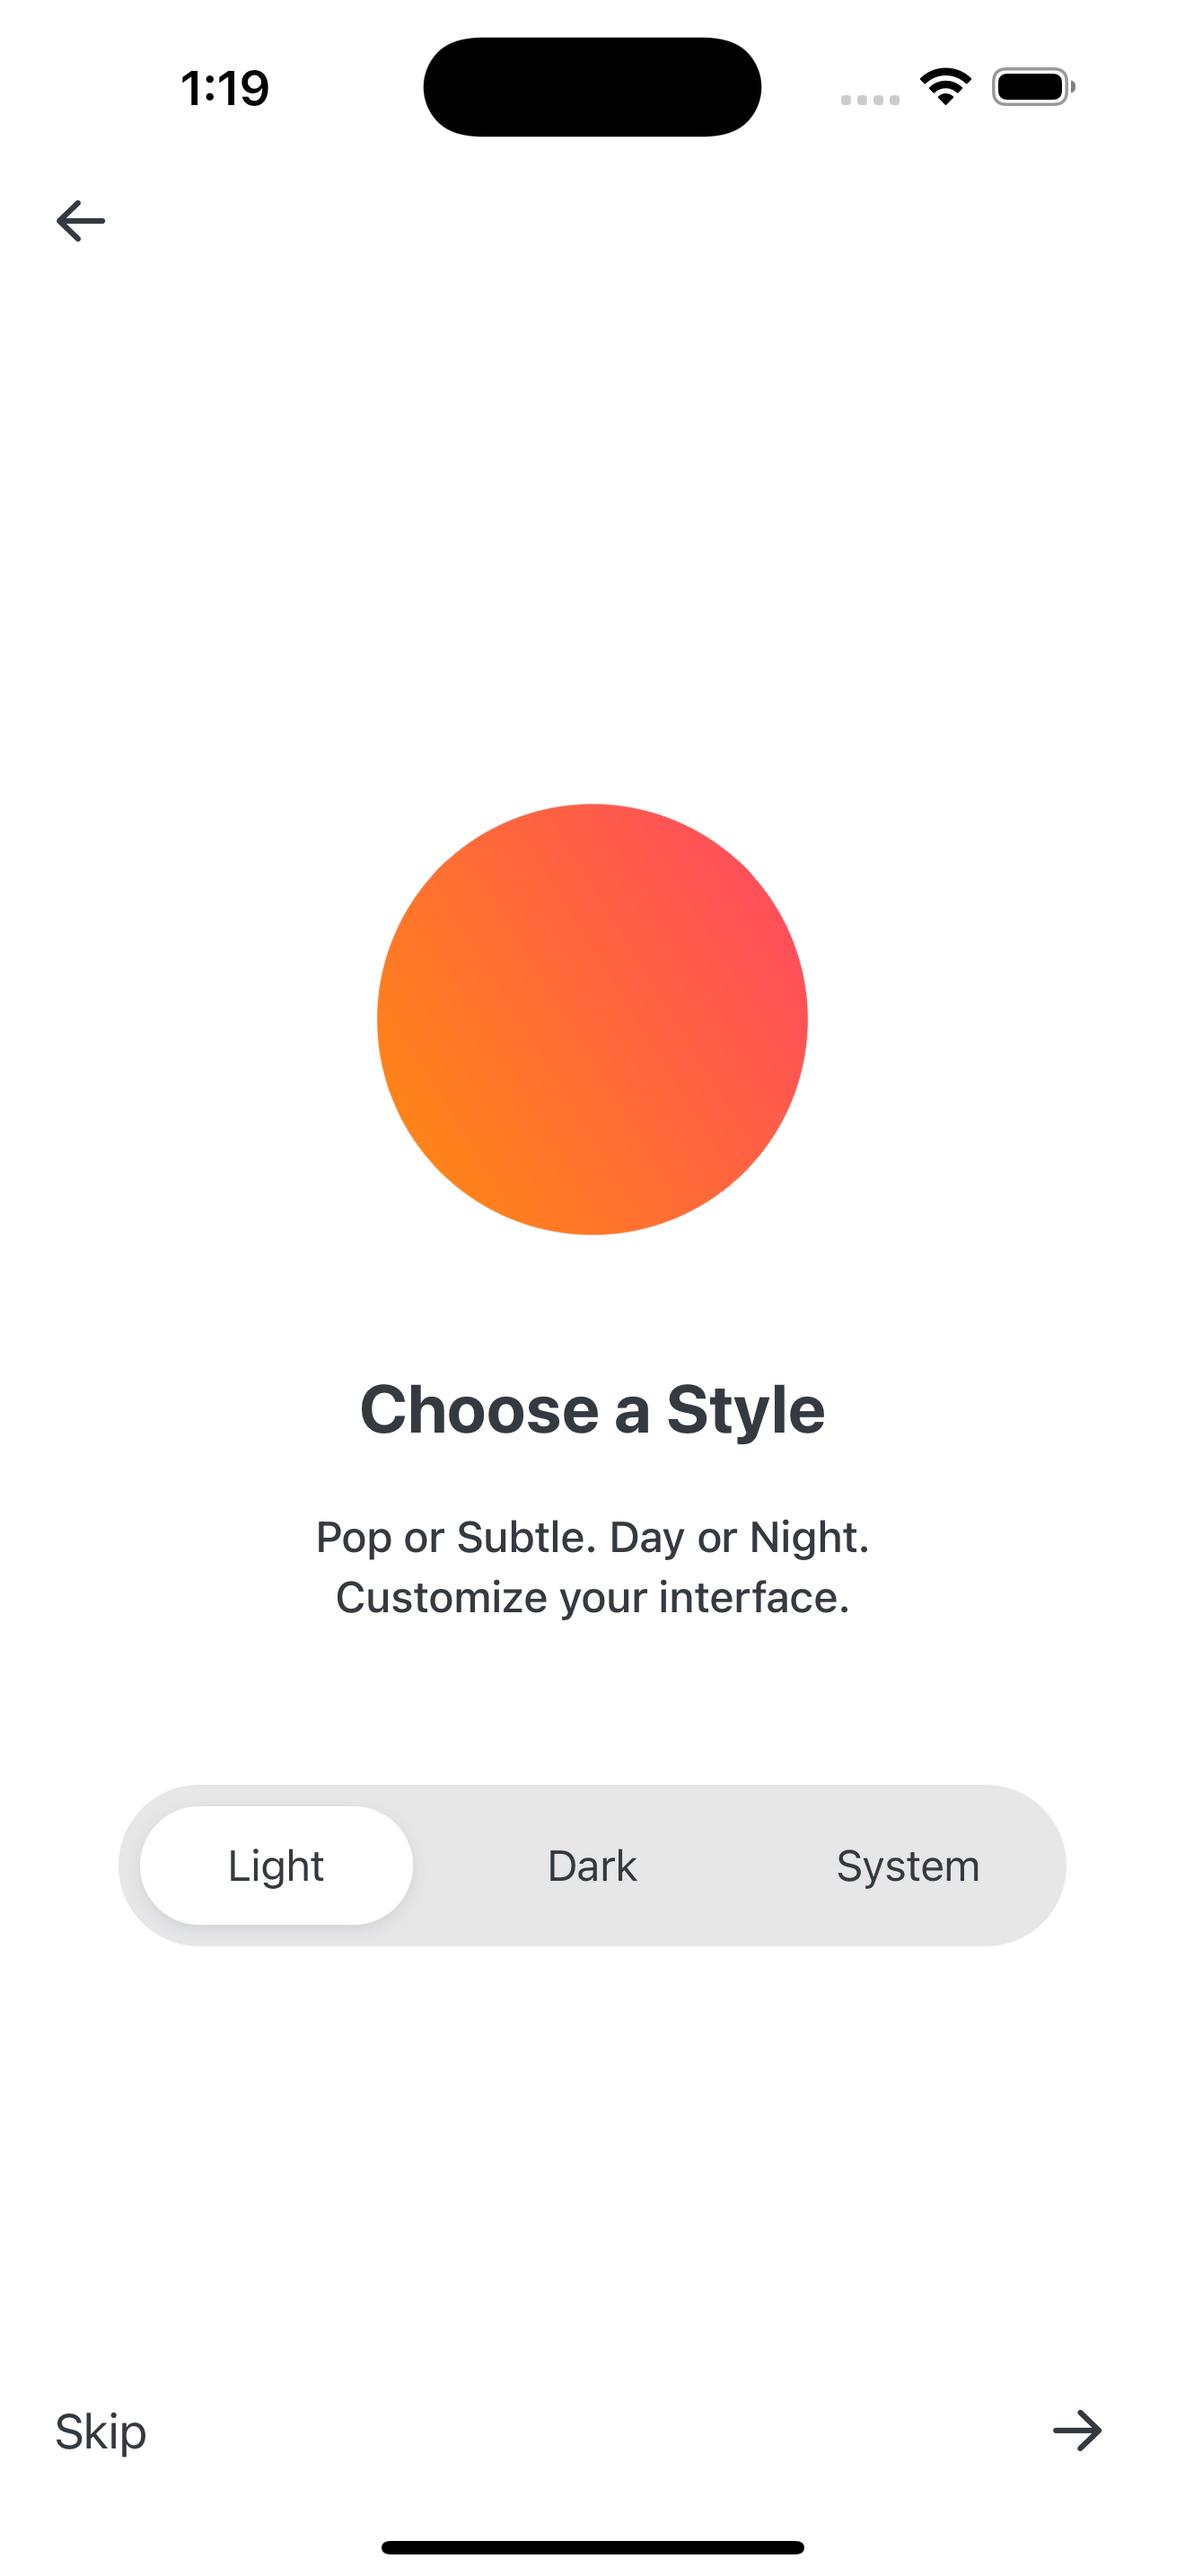
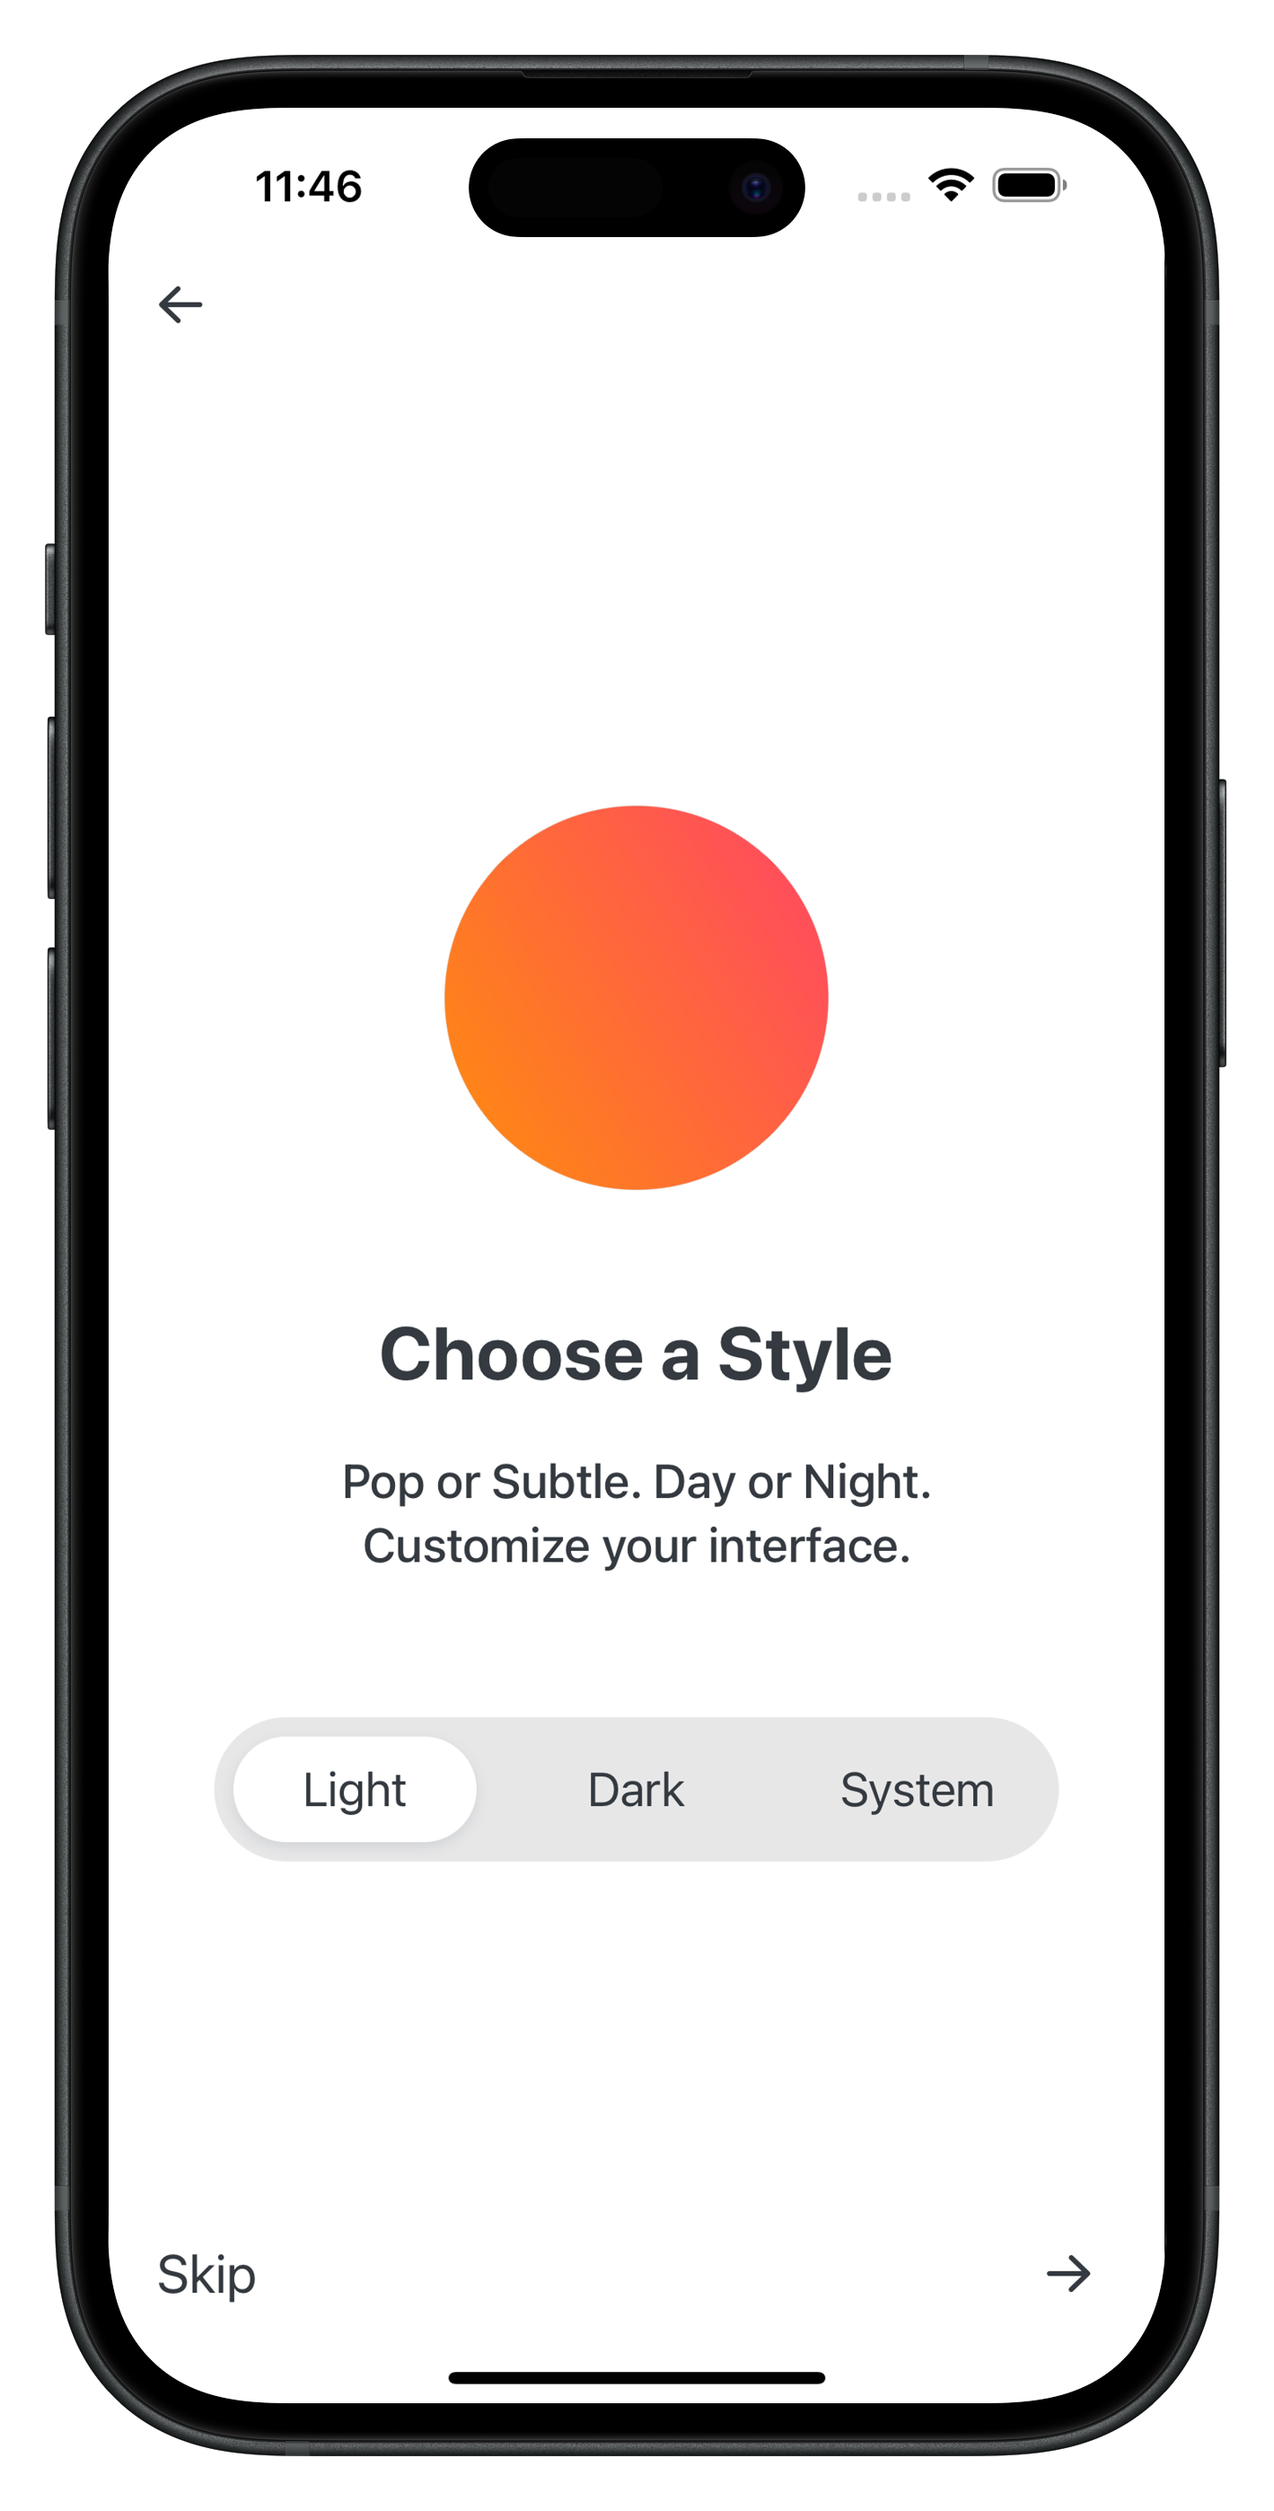
add new mockup images

diff --git a/app/(onboardingSpotlight)/index.tsx b/app/(onboardingSpotlight)/index.tsx
@@ -5,6 +5,8 @@ import {
   _windowHeight,
   _windowWidth,
   FONTS,
+  WINDOW_HEIGHT,
+  WINDOW_WIDTH,
 } from "@/utils/constant";
 import Animated, {
   useAnimatedStyle,
@@ -45,7 +47,6 @@ interface ScrollViewDataItem {
 }
 
 interface OnboardingProps {
-  onComplete?: () => void;
   cardData?: {
     membershipNumber: string;
     memberName: string;
@@ -53,8 +54,6 @@ interface OnboardingProps {
   };
 }
 
-// Get actual window dimensions for better responsiveness
-const { width: WINDOW_WIDTH, height: WINDOW_HEIGHT } = Dimensions.get("window");
 const CARD_HEIGHT = WINDOW_HEIGHT * 0.6;
 const CARD_WIDTH = WINDOW_WIDTH * 0.88;
 const PRIMARY_COLOR = "#FA5622";
@@ -156,7 +155,6 @@ const defaultScrollViewData: ScrollViewDataItem[] = [
 ];
 
 const OnboardingComponent: React.FC<OnboardingProps> = ({
-  onComplete,
   cardData = {
     membershipNumber: "472284927",
     memberName: "Alex Wilson",
@@ -236,17 +234,9 @@ const OnboardingComponent: React.FC<OnboardingProps> = ({
   }, [currentIndex, springConfig, spotlightTimingConfig]);
 
   // Handle scroll index change
-  const handleIndexChange = useCallback(
-    (newIndex: number) => {
-      setCurrentIndex(newIndex);
-
-      // Call onComplete when reaching the last slide
-      if (newIndex === defaultScrollViewData.length - 1 && onComplete) {
-        onComplete();
-      }
-    },
-    [onComplete]
-  );
+  const handleIndexChange = useCallback((newIndex: number) => {
+    setCurrentIndex(newIndex);
+  }, []);
 
   // Scroll handler
   const scrollHandler = useAnimatedScrollHandler(
@@ -354,7 +344,7 @@ const OnboardingComponent: React.FC<OnboardingProps> = ({
                     >
                       <Image
                         style={styles.fullSize}
-                        source={require("@/assets/images/spotlight2.png")}
+                        source={require("@/assets/images/spotlight.png")}
                         contentFit="contain"
                       />
                     </Animated.View>

diff --git a/utils/constant.ts b/utils/constant.ts
@@ -40,12 +40,19 @@ export const LuxuryColors = {
 export const _animationLists: AnimationListItemType[] = [
   {
     id: 6,
-    title: "Test Screen",
+    title: "Onboarding Spotlight",
     githubLink:
       "https://github.com/Sumit31-cyber/crafted-UI/tree/main/app/themeToggleSwitch",
-    thumbnail_url: require("@/assets/images/spotifyAnimation.png"),
-    path: "/testScreen",
-    topics: [],
+    thumbnail_url: require("@/assets/images/onboarding-spotlight.png"),
+    path: "/(onboardingSpotlight)",
+    topics: [
+      "perspective",
+      "transformation",
+      "reanimated",
+      "interpolate",
+      "useAnimatedScrollHandler",
+      "react native carousel",
+    ],
   },
   {
     id: 5,
@@ -118,6 +125,9 @@ export const _animationLists: AnimationListItemType[] = [
 
 export const _windowWidth = Dimensions.get("window").width;
 export const _windowHeight = Dimensions.get("window").height;
+
+export const { width: WINDOW_WIDTH, height: WINDOW_HEIGHT } =
+  Dimensions.get("screen");
 
 export const _horizontalPadding = _windowWidth * 0.03;
 export const _headerHeight = _windowWidth * 0.12;

diff --git a/app/_layout.tsx b/app/_layout.tsx
@@ -90,7 +90,10 @@ export default function RootLayout() {
           name="(circularCarousel)/index"
           options={{ headerShown: false }}
         />
-        <Stack.Screen name="testScreen" options={{ headerShown: false }} />
+        <Stack.Screen
+          name="(onboardingSpotlight)/index"
+          options={{ headerShown: false }}
+        />
 
         {/* Not found screen */}
         <Stack.Screen name="+not-found" />
